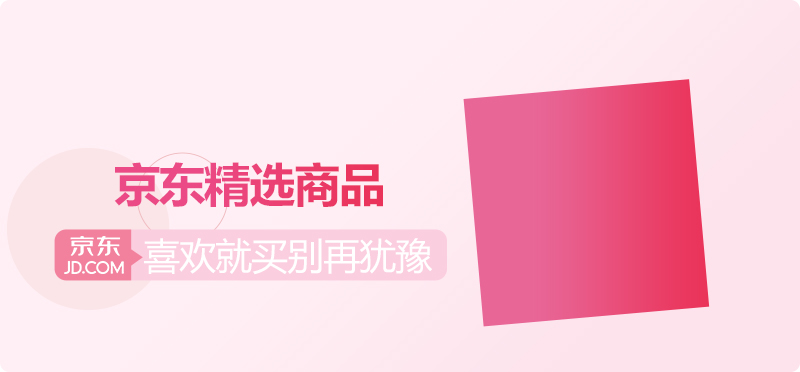
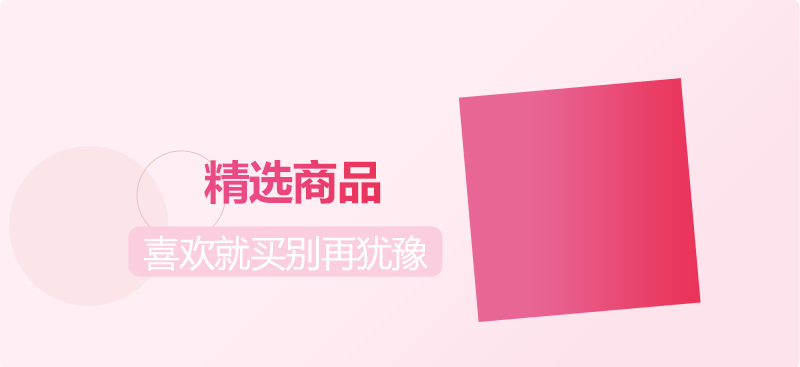
change_banner
tu.tu

diff --git a/src/component/homepage/bannerMode.less b/src/component/homepage/bannerMode.less
@@ -246,18 +246,9 @@
     .txt_JD {
 
       font-size: 12px;
-
+      text-decoration: line-through;
       opacity: .7;
-      &:after {
-        content: '';
-        position: absolute;
-        width: 90%;
-        height: 1px;
-        bottom: 30%;
-        background: #FFFFFF;
-        left: 4px;
 
-      }
     }
 
 
